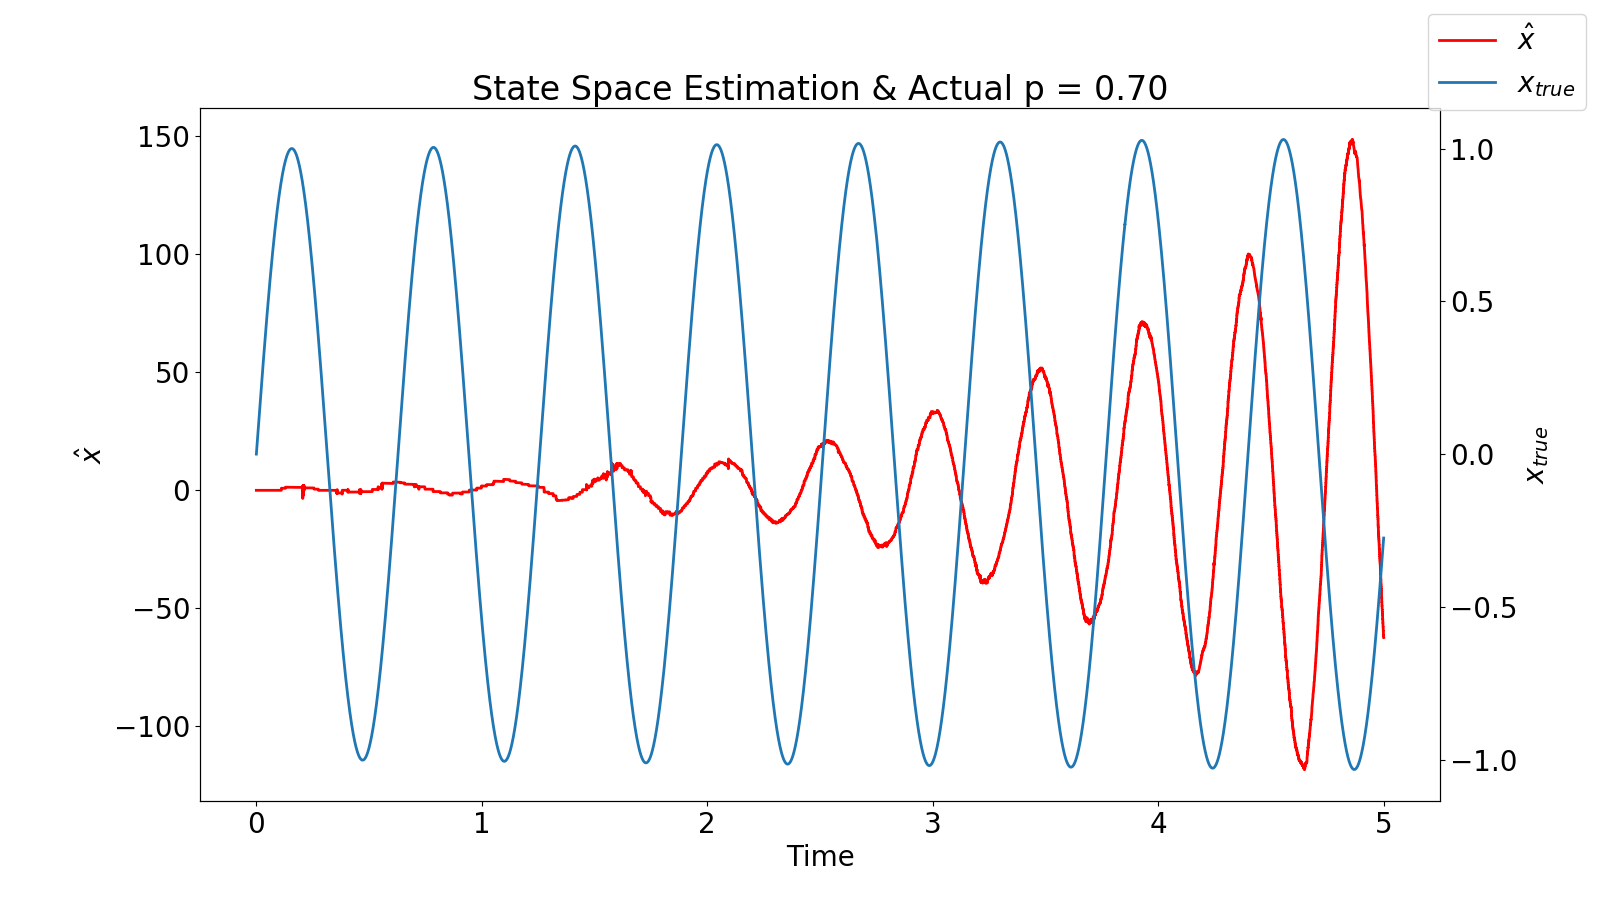
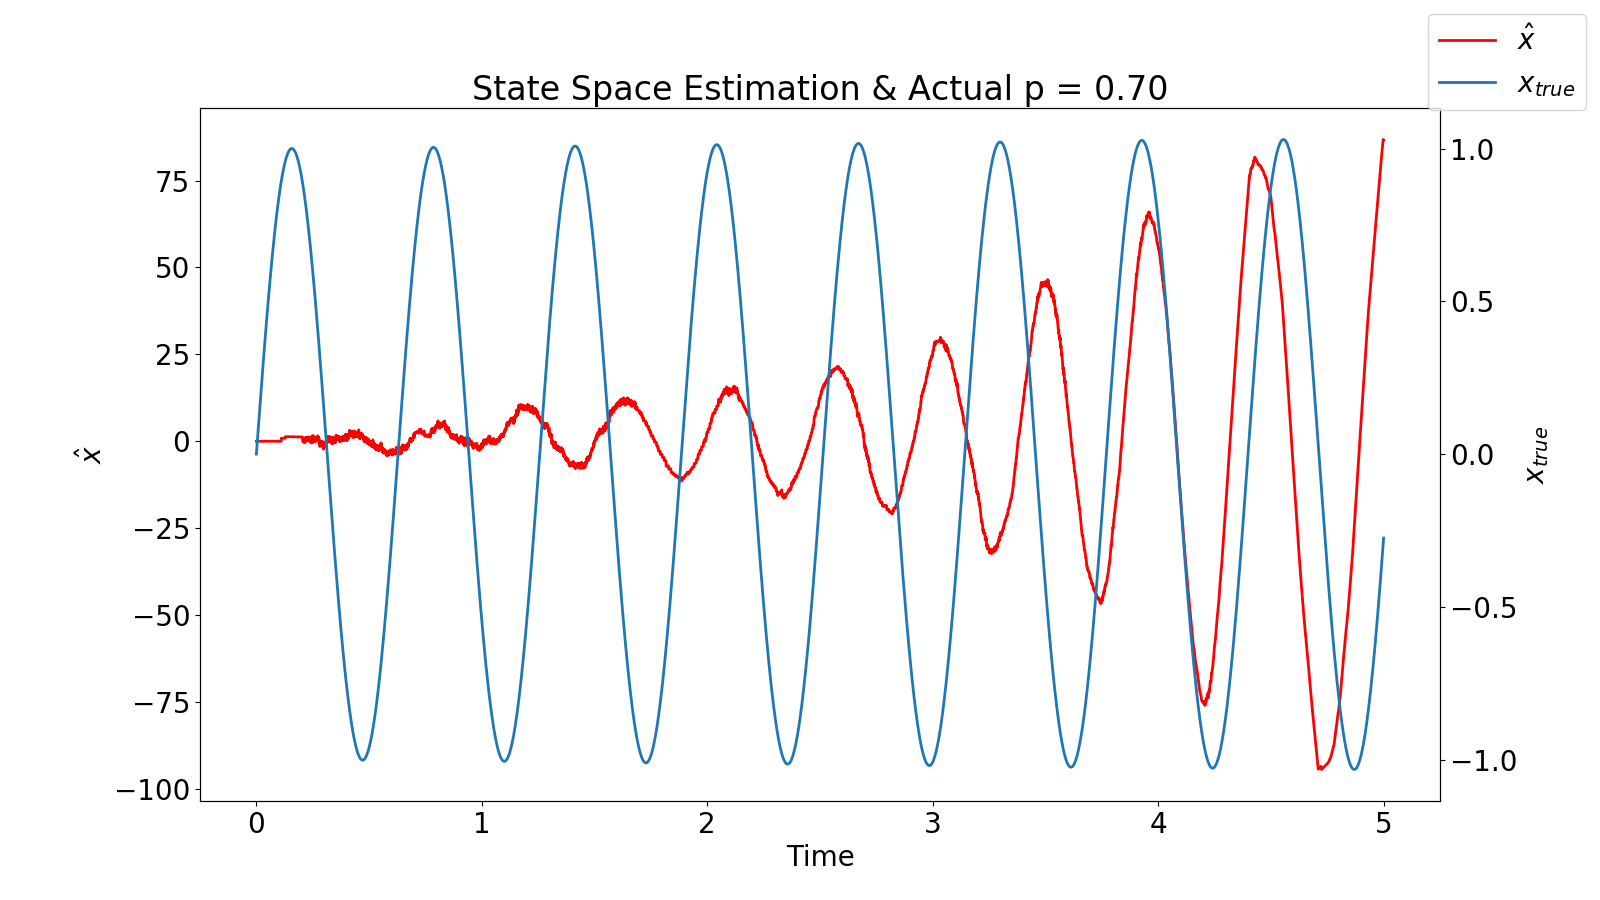
swtiching stations - need to figure out dt/ delta scaling

diff --git a/HSF/spike_drop_eigenspectrum.py b/HSF/spike_drop_eigenspectrum.py
@@ -18,11 +18,11 @@ A[0,1] = 1
 A[1,0] = -1
 A = 10 * A
 N = 64
-lam =  1
+lam = 1
 mode = '2d cosine'
 p = 1
 ps = [0.01, .1, .3, .5, .7, .9, .99, 1]
-ps = [0.01]
+#ps = [1]
 
 #Generate Data    
 
@@ -30,7 +30,7 @@ B = np.eye(2)
 u0 = np.asarray([0, 0])
 x0 = np.asarray([0, 1])
 T = 5
-dt = 1e-5
+dt = 1e-3
 lds = sat.LinearDynamicalSystem(x0, A, B, u = lambda t: u0 , T = T, dt = dt)
 D = gen_decoder(A.shape[0], N, mode=mode)
 
@@ -72,68 +72,65 @@ def eigen_spec_full(data, D):
 
 #for p in ps:
 
-@jit(parallel=True)
-def run_loop():
-    for p in ps:
-        D =  1e-2 * D
-        net = SpikeDropDeneveNet(T=T, dt=dt, N=N, D=D, lds=lds, lam=lam, p=p, t0=0, thresh = 'not full')
-        data = net.run_sim()
-        
-        plt.figure(1)
-        plt.clf()
-        plt.xlabel('Time')
-        plt.ylabel('$\hat{x}$')
-        ax = plt.gca()
-        ax2 = ax.twinx() 
-        ax2.set_ylabel('$x_{true}$')
-        ax.plot(data['t'], data['x_hat'][0,:],c = 'red', label = r'$\hat{x}$')
-        ax2.plot(data['t_true'], data['x_true'][0,:],label=r'$x_{true}$')
-        plt.title('State Space Estimation & Actual p = %.2f'%p)
-        plt.gcf().legend()
-        plt.savefig('./Figures/f1p=%.2f.png'%p)
-        
-        err_pow, dec_pow = eigen_spec_partition(data)
-        fig = plt.figure(2)
-        plt.ylabel('Relative Power of Subspace')
-        plt.xlabel("Time")
+for p in ps:
+    D = D (1 - 1-p)
+    net = SpikeDropDeneveNet(T=T, dt=dt, N=N, D=D, lds=lds, lam=lam, p=p, t0=0, thresh = 'not full')
+    data = net.run_sim()
     
-        plt.clf()
-        ax = plt.gca()
-        ax2 = ax.twinx()
-        tot_pow = err_pow + dec_pow
-        tow_pow = [1 for j in tot_pow if not np.nonzero(j)]
-        rel_err = np.divide(err_pow, tot_pow)
-        rel_dec = np.divide(dec_pow, tot_pow)
-        ax.plot(data['t'], rel_err , label='Error Power')
-        ax.plot(data['t'], rel_dec, label='Relative Decoherence Power')
-        ax2.plot(data['t'],tot_pow,c='green',label='Total Power')
-        ax2.set_ylabel('Total Power')
-        plt.title('Fraction of Total Energy Decohered p=%.2f'%p)
-        fig.legend(borderaxespad= 10)
-        plt.savefig('./Figures/f2p=%.2f.png'%p)
+    plt.figure(1)
+    plt.clf()
+    plt.xlabel('Time')
+    plt.ylabel('$\hat{x}$')
+    ax = plt.gca()
+    ax2 = ax.twinx() 
+    ax2.set_ylabel('$x_{true}$')
+    ax.plot(data['t'], data['x_hat'][0,:],c = 'red', label = r'$\hat{x}$')
+    ax2.plot(data['t_true'], data['x_true'][0,:],label=r'$x_{true}$')
+    plt.title('State Space Estimation & Actual p = %.2f'%p)
+    plt.gcf().legend()
+    plt.savefig('./Figures/f1p=%.2f.png'%p)
+    
+    err_pow, dec_pow = eigen_spec_partition(data)
+    fig = plt.figure(2)
+    plt.ylabel('Relative Power of Subspace')
+    plt.xlabel("Time")
+
+    plt.clf()
+    ax = plt.gca()
+    ax2 = ax.twinx()
+    tot_pow = err_pow + dec_pow
+    tow_pow = [1 for j in tot_pow if not np.nonzero(j)]
+    rel_err = np.divide(err_pow, tot_pow)
+    rel_dec = np.divide(dec_pow, tot_pow)
+    ax.plot(data['t'], rel_err , label='Error Power')
+    ax.plot(data['t'], rel_dec, label='Relative Decoherence Power')
+    ax2.plot(data['t'],tot_pow,c='green',label='Total Power')
+    ax2.set_ylabel('Total Power')
+    plt.title('Fraction of Total Energy Decohered p=%.2f'%p)
+    fig.legend(borderaxespad= 10)
+    plt.savefig('./Figures/f2p=%.2f.png'%p)
 
 
-        plt.figure(3)
-        plt.clf()
-        es = eigen_spec_full(data, D)[0]
-        plt.imshow(es,
-                    cmap = 'seismic',
-                    norm=colors.SymLogNorm(linthresh=.01, vmin=np.min(es), vmax=np.max(es))
-                    )
-        plt.axis('auto')
-        plt.xlabel('Time')
-        plt.ylabel('Right Eigenvector j')
-        plt.title('Time course of Voltage Eigenspectrum p=%.2f'%p)
-        cbar = plt.colorbar()
-        cbar.set_label('Projection $c_j$')
-        
-        num_ticks = 10
-        idxs = np.arange(0, len(data['t']), step = int(len(data['t'])/num_ticks))
-        
-        x_label_list = np.round(data['t'][idxs],2).astype(np.unicode)
-        ax = plt.gca()
-        ax.set_xticks(idxs)
-        ax.set_xticklabels(x_label_list)
-        plt.savefig('./Figures/f3p=%.2f.png'%p)
-run_loop()
-#plt.show()
+    plt.figure(3)
+    plt.clf()
+    es = eigen_spec_full(data, D)[0]
+    plt.imshow(es,
+                cmap = 'seismic',
+                norm=colors.SymLogNorm(linthresh=.01, vmin=np.min(es), vmax=np.max(es))
+                )
+    plt.axis('auto')
+    plt.xlabel('Time')
+    plt.ylabel('Right Eigenvector j')
+    plt.title('Time course of Voltage Eigenspectrum p=%.2f'%p)
+    cbar = plt.colorbar()
+    cbar.set_label('Projection $c_j$')
+    
+    num_ticks = 10
+    idxs = np.arange(0, len(data['t']), step = int(len(data['t'])/num_ticks))
+    
+    x_label_list = np.round(data['t'][idxs],2).astype(np.unicode)
+    ax = plt.gca()
+    ax.set_xticks(idxs)
+    ax.set_xticklabels(x_label_list)
+    plt.savefig('./Figures/f3p=%.2f.png'%p)
+plt.show()

diff --git a/HSF/HSFNets.py b/HSF/HSFNets.py
@@ -246,6 +246,7 @@ class GapJunctionDeneveNet(SpikingNeuralNet):
 class SpikeDropDeneveNet(GapJunctionDeneveNet):
     
     def __init__(self, T, dt, N, D, lds, lam, p, t0 = 0, thresh = 'not full'):
+         
         super().__init__(T, dt, N, D, lds, lam, t0, thresh)
         assert(p > 0 and p <= 1), 'Probability of Spike Drops must be greater than 0, and less/equal to 1, but was %f'%p
         self.p = p
@@ -275,11 +276,10 @@ class SpikeDropDeneveNet(GapJunctionDeneveNet):
                     idx = np.argmax(diff)
                     np.random.seed(seed)
                     draw = np.asarray(np.random.binomial(1, p, size = (len(vth),)), dtype = np.float64)
-
                     draw[idx] = 1 
                     draw = np.multiply(draw, Mo[:,idx])
-                    V[:,count] +=  draw
-                    r[idx,count] += 1
+                    V[:,count] +=  draw 
+                    r[idx,count] += 1  
                     O[idx] = np.append(O[idx], t[-1])
                     seed += 1
 
@@ -295,24 +295,25 @@ class SpikeDropDeneveNet(GapJunctionDeneveNet):
         
         self.lds_data = self.lds.run_sim()
         U = self.lds_data['U']
-        vth = self.vth
+        p = self.p
+        vth = self.vth 
         num_pts = self.num_pts
         dt = self.dt
         t = np.asarray(self.t)
         V = self.V
         r = self.r
         O = self.O
-        Mv = self.Mv
-        Mo = self.Mo
-        Mr = self.Mr
-        Mc = self.Mc
+        Mv = self.Mv 
+        Mo = self.Mo 
+        Mr = self.Mr 
+        Mc = self.Mc 
         lam  = self.lam
-        p = self.p
+        
 
         top = np.hstack((Mv, Mr))
         bot = np.hstack((np.zeros((self.N,self.N)), -lam * np.eye(self.N)))
         A_exp = np.vstack((top, bot)) #matrix exponential for linear part of eq
-        A_exp = expm(A_exp* dt)
+        A_exp = expm(A_exp * dt)
         
         fast_sim(dt, vth, num_pts, t, V, r, O, U, Mv, Mo, Mr, Mc, lam, A_exp, p)
 
